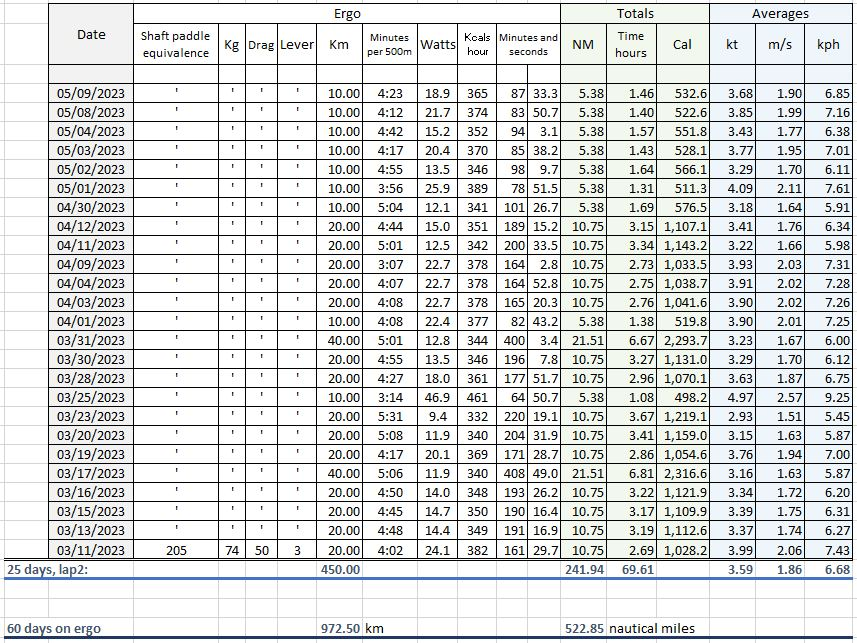
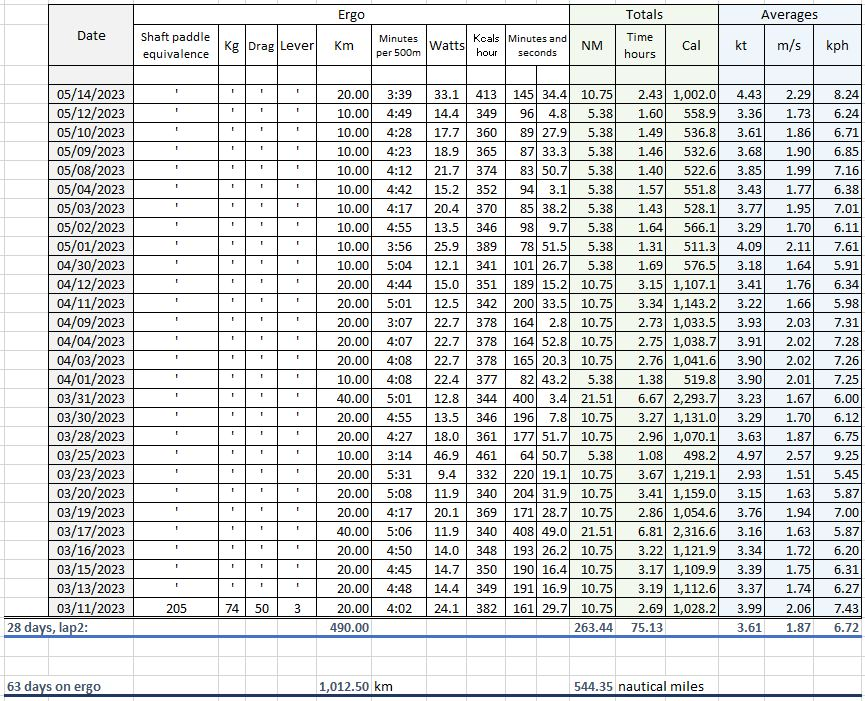
updates

diff --git a/dry-run/log/index.html b/dry-run/log/index.html
@@ -214,11 +214,11 @@ $(document).ready(function(){
 <p>This is not the actual trip. This is just training mapped on chart to have an idea of what the real thing might be.</p>
 </blockquote>
 <blockquote>
-<p>May 9, 2023, lap2</p>
+<p>May 14, 2023, lap2</p>
 </blockquote>
-<p><img src="/img/may9.JPG" alt="May 09">
+<p><img src="/img/may14.JPG" alt="May 14">
 <div style="text-align: center">
-25 days on ergo, 242 nautical miles, 450 km, lap2
+28 days on ergo, 263 nautical miles, 490 km, lap2
 </div>
 </p>
 <p><img src="/img/Stats2.JPG" alt="Stats">
